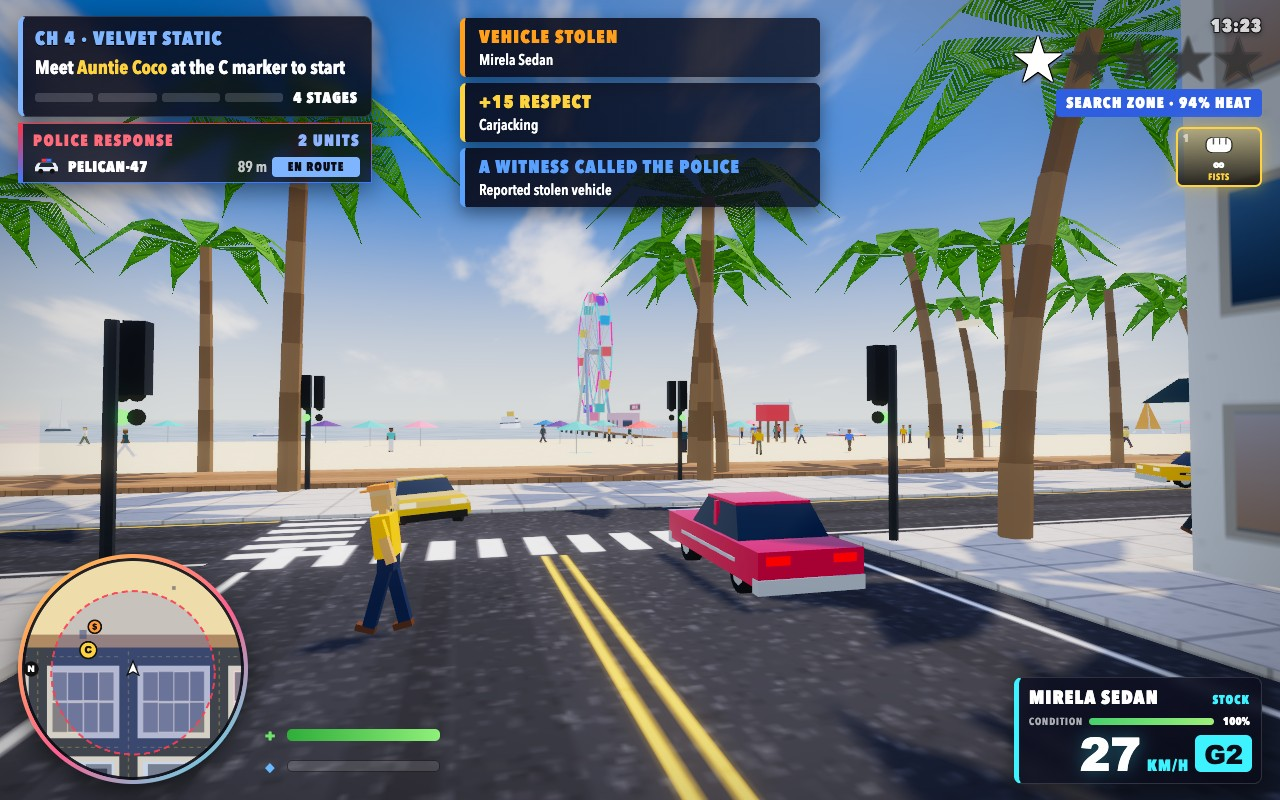
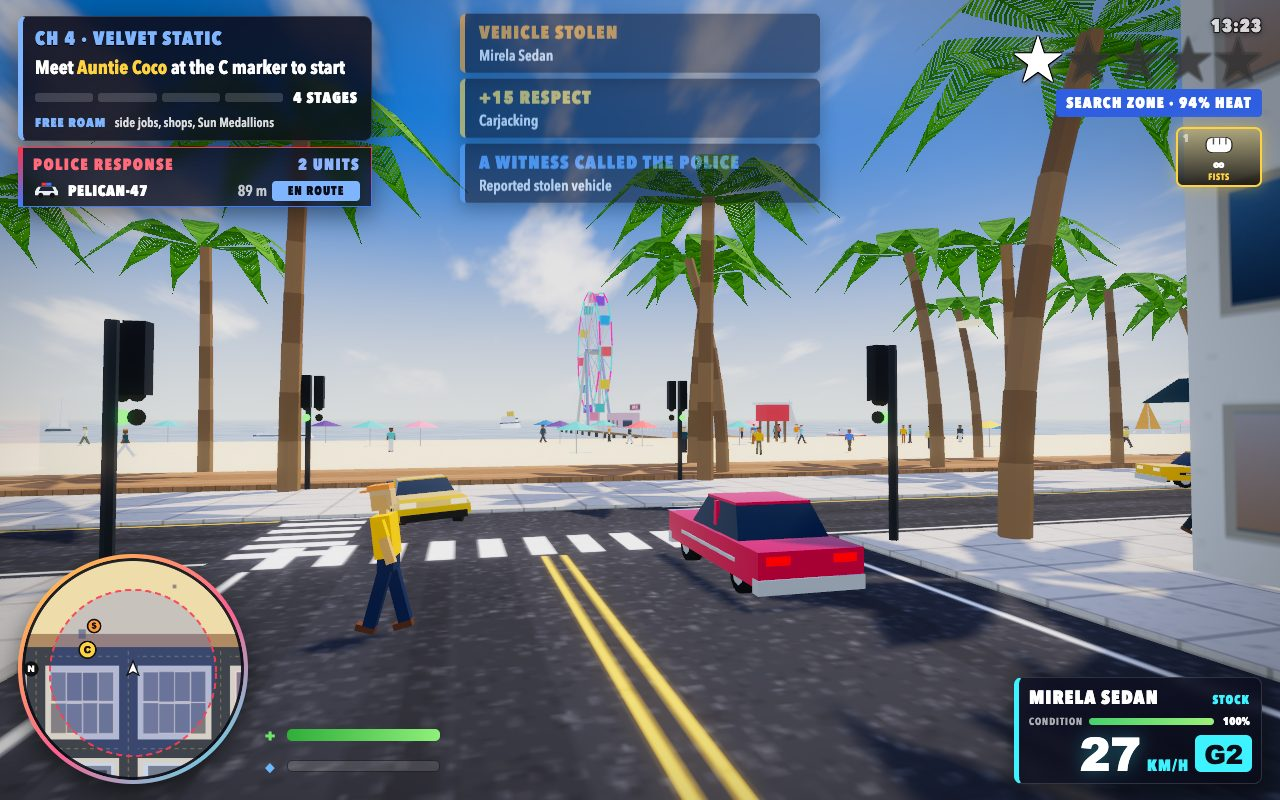
Polish Gold Coast escape guidance

diff --git a/game/src/missions/chapters.js b/game/src/missions/chapters.js
@@ -30,31 +30,33 @@ export const NEON_PALMS = { x: lineCoord(6) + 18, z: lineCoord(7) - 8 };
 const TRUCK_START = { x: lineCoord(9) - 3.5, z: lineCoord(2) + 8 };
 const TRUCK_SPEED = 10;
 
-const ESCAPE_OBJECTIVE = "Outrun the heat to Tavo's garage, or lose sight of the cops and slip into Coco's";
+const ESCAPE_OBJECTIVE = "Follow the GPS to stash Pike's cash";
 
 /**
  * Gold Coast Getaway's escape: two drops. Tavo's garage takes Dani in with the cruisers on the
  * bumper; Coco's side door is a block from the heist but only opens once no unit can see Dani,
- * and Coco keeps a cut. The GPS follows whichever drop is nearer, and the objective line says
- * what Coco is waiting for.
+ * and Coco keeps a cut. The GPS chooses the nearer route once, then stays stable so a turn at an
+ * intersection cannot make the HUD and route flip back and forth.
  */
 function updateEscape(ctx) {
   const g = ctx.game;
   const p = g.player;
   ctx.data.cocoDrop ??= ctx.spot(COCO_DROP.x, COCO_DROP.z, { radius: 4.5, color: '#ffb347', label: "Coco's side door" });
-  ctx.data.gpsTo ??= 'tavo';
   const drop = ctx.data.cocoDrop;
   const toCoco = Math.hypot(p.x - drop.x, p.z - drop.z);
   const toTavo = Math.hypot(p.x - garageBay.x, p.z - garageBay.z);
-  const nearer = toCoco < toTavo ? 'coco' : 'tavo';
-  if (nearer !== ctx.data.gpsTo) {
-    ctx.data.gpsTo = nearer;
-    if (nearer === 'coco') g.gps.setTarget(drop.x, drop.z, '#ffb347');
-    else g.gps.setTarget(garageBay.x, garageBay.z, '#3ef2ff');
+  if (!ctx.data.gpsTo) {
+    ctx.data.gpsTo = toCoco < toTavo ? 'coco' : 'tavo';
+    if (ctx.data.gpsTo === 'coco') g.gps.setTarget(drop.x, drop.z, '#ffb347');
   }
   const seen = g.wanted.state.seen && g.wanted.level > 0;
-  if (toCoco < 45) ctx.objective(seen ? "Coco won't open with cops in sight: break line of sight" : "Out of sight: pull up at Coco's side door, now");
-  else ctx.objective(ESCAPE_OBJECTIVE);
+  const routeCoco = ctx.data.gpsTo === 'coco';
+  ctx.objective(routeCoco
+    ? (seen ? "GPS: Coco's side door — break police sight before entry" : "GPS: Coco's side door — pull in while unseen")
+    : "GPS: Tavo's garage — drive into the bay, even with heat");
+  ctx.data.routeCue = routeCoco
+    ? `COCO ${Math.round(toCoco)} m · UNSEEN · $4,500  |  TAVO ${Math.round(toTavo)} m · HEAT OK · $6,000`
+    : `TAVO ${Math.round(toTavo)} m · HEAT OK · $6,000  |  COCO ${Math.round(toCoco)} m · UNSEEN · $4,500`;
   if (ctx.atWaypoint(12) && p.vehicle) {
     // Driving into Tavo's bay with the heat on: the door rolls down behind Dani.
     finishEscape(ctx, 'tavo', "Drop the cash at Tavo's garage");

diff --git a/game/src/shots/shotScenes.js b/game/src/shots/shotScenes.js
@@ -85,28 +85,31 @@ const SCENES = {
     const ctx = startChapterAt(game, 'goldcoast', 2, "Outrun the four-star response and reach Tavo's garage");
     game.vehicles.remove(ctx.data.truck);
     const tavo = LANDMARKS.tavoGarage;
+    // This reproducible cover follows the full-payout branch; normal play chooses once by distance.
+    ctx.data.gpsTo = 'tavo';
     ctx.waypoint(tavo.x, tavo.z - 13, { radius: 4.5, color: '#3ef2ff', label: "Tavo's garage" });
     ctx.timer(131.4);
-    const car = game.vehicles.spawn('vantor', 170, -1.8, EAST, { color: '#12c8e0' });
+    const car = game.vehicles.spawn('vantor', 140, 5, 0, { color: '#12c8e0' });
     car.persistent = true;
     p.teleport(car.x, car.z - 2);
     p.enterVehicle(car);
-    car.vx = 31;
+    car.vz = 31;
     game.wanted.setLevel(4);
     // The pack on Dani's bumper: one dead astern, two flanking, one more behind.
-    const units = [[164, 3.4], [158.5, 6.2], [156, 0.8], [151, -4.2]].map(([x, z]) => {
-      const u = game.police.spawnUnitAt(x, z, EAST);
-      u.car.vx = 31;
+    const units = [[135.5, -1], [141.5, -6.5], [146, -9], [137, -14]].map(([x, z]) => {
+      const u = game.police.spawnUnitAt(x, z, 0);
+      u.car.vz = 31;
       return u;
     });
     trafficCar(game, 'solcab', 236, -3.5, -EAST, 6);
     trafficCar(game, 'mirela', 214, -3.5, -EAST, 8, '#f1faee');
     trafficCar(game, 'tessaro', lineCoord(9) - 3.5, 30, Math.PI, 6, '#a8dadc');
     populate(game, 200, 0, 4, 20, 50, 130);
-    game.camera.alignBehind(EAST, 0.12);
+    game.camera.alignBehind(0, 0.12);
     run(game, tools, 0.3, ['KeyW']);
     // Dispatch boxes the road in at the Promenade, the helicopter leans in over the chase.
-    game.police.roadblocks.buildAt(lineCoord(8) + 14, 0, EAST);
+    game.gps.update(1.1);
+    game.police.roadblocks.buildAt(140, car.z + 55, 0);
     game.police.helicopter.placeAt(car.x + 30, 19, car.z - 1, 0);
     game.dialogue.clear();
     game.dialogue.say([{ who: 'juno', text: 'Roadblock at the Promenade! Thread the gap and do NOT touch the spikes, Dani!', duration: 30 }]);
@@ -114,7 +117,7 @@ const SCENES = {
     units[0].ramming = true;
     // A close chase camera that keeps Dani's car dominant while the police pack and route read clearly.
     const lead = game.player.vehicle ?? car;
-    game.camera.setPose(lead.x - 14, 4.1, lead.z - 4, lead.x + 20, 2, lead.z + 1.4, 57);
+    game.camera.setPose(lead.x - 4, 4.1, lead.z - 14, lead.x + 1.4, 2, lead.z + 20, 57);
     clearLens(game);
   },
 

diff --git a/game/src/police/dispatch.js b/game/src/police/dispatch.js
@@ -5,6 +5,29 @@
 
 const PREFIXES = ['MARLIN', 'HERON', 'TARPON', 'PELICAN', 'SNAPPER', 'OSPREY', 'BARRACUDA', 'EGRET'];
 
+function pointSegmentDistance(p, a, b) {
+  const dx = b.x - a.x, dz = b.z - a.z;
+  const length2 = dx * dx + dz * dz || 1;
+  const t = Math.max(0, Math.min(1, ((p.x - a.x) * dx + (p.z - a.z) * dz) / length2));
+  return Math.hypot(p.x - (a.x + dx * t), p.z - (a.z + dz * t));
+}
+
+/** Nearest real roadblock that is in front of the player and on the active GPS route. */
+export function findRoadblockAhead(player, blocks, route, heat) {
+  if (!heat || !route?.length) return null;
+  const speed = Math.hypot(player.vx ?? 0, player.vz ?? 0);
+  const fx = speed > 2 ? player.vx / speed : Math.sin(player.heading ?? 0);
+  const fz = speed > 2 ? player.vz / speed : Math.cos(player.heading ?? 0);
+  return blocks.map((block) => {
+    const dx = block.x - player.x, dz = block.z - player.z;
+    const distance = Math.hypot(dx, dz);
+    const ahead = distance ? (dx * fx + dz * fz) / distance : -1;
+    const onRoute = route.some((point, i) => i && pointSegmentDistance(block, route[i - 1], point) < 22);
+    return { block, distance, ahead, onRoute };
+  }).filter((item) => item.distance < 190 && item.ahead > 0.35 && item.onRoute)
+    .sort((a, b) => a.distance - b.distance)[0] ?? null;
+}
+
 /** Status tags with the colour the HUD shows them in. */
 export const UNIT_STATUS = {
   RAMMING: { label: 'RAMMING', color: '#ff4d5e' },
@@ -60,6 +83,15 @@ export function createDispatch(game, force) {
     return { rows: rows.slice(0, limit), more: Math.max(0, rows.length - limit) + force.reserveUnits };
   }
 
+  function roadblockAhead() {
+    const p = game.player;
+    const v = p.vehicle;
+    return findRoadblockAhead({
+      x: p.x, z: p.z, vx: v?.vx, vz: v?.vz,
+      heading: v?.heading ?? game.camera.state.yaw,
+    }, force.roadblocks.blocks, game.gps.state.route, game.wanted.level > 0);
+  }
+
   // Scanner chatter on escalation.
   game.events.on('wantedRaised', ({ level }) => {
     if (game.shotMode) return;
@@ -69,5 +101,5 @@ export function createDispatch(game, force) {
   });
   game.events.on('wantedCleared', () => { chatter.lastLevel = 0; });
 
-  return { callsign, roster, statusOf };
+  return { callsign, roster, statusOf, roadblockAhead };
 }

diff --git a/game/src/shots/selfTest.js b/game/src/shots/selfTest.js
@@ -145,6 +145,7 @@ export function runSelfTest(game, { simulate, input, session, interactions }, re
     game.police.reset();
     const index = CHAPTERS.findIndex((c) => c.id === 'goldcoast');
     game.state.storyProgress = index;
+    const cashBefore = game.state.cash;
     const ctx = game.missions.startById('goldcoast');
     const truck = ctx.data.truck;
     truck.damage(truck.maxHealth * 0.85, 'player');
@@ -156,6 +157,7 @@ export function runSelfTest(game, { simulate, input, session, interactions }, re
     if (ctx.stageIndex !== 2 || game.wanted.level !== 4) throw new Error(`case grabbed but stage ${ctx.stageIndex}, ${game.wanted.level} stars`);
     run(0.2);
     const spot = drop === 'coco' ? ctx.data.cocoDrop : ctx.current;
+    if (!ctx.data.routeCue?.includes('$6,000') || !ctx.data.routeCue.includes('$4,500')) throw new Error(`missing route terms: ${ctx.data.routeCue}`);
     const car = game.vehicles.spawn('vantor', spot.x, spot.z - 9, 0);
     p.teleport(car.x - 2, car.z);
     p.enterVehicle(car);
@@ -165,7 +167,7 @@ export function runSelfTest(game, { simulate, input, session, interactions }, re
     run(0.3);
     if (drop === 'coco') {
       if (ctx.stageIndex !== 2) throw new Error('Coco opened with a cruiser watching');
-      if (!/break line of sight/.test(ctx.objectiveText)) throw new Error(`objective "${ctx.objectiveText}"`);
+      if (!/break police sight/.test(ctx.objectiveText)) throw new Error(`objective "${ctx.objectiveText}"`);
       game.police.reset();
       game.vehicles.remove(unit.car);
       run(0.5);
@@ -173,6 +175,8 @@ export function runSelfTest(game, { simulate, input, session, interactions }, re
     run(0.3);
     if (game.missions.active) throw new Error(`still on stage ${ctx.stageIndex}: ${ctx.objectiveText}`);
     if (game.state.choices.goldcoastDrop !== drop) throw new Error(`choice saved as ${game.state.choices.goldcoastDrop}`);
+    const expectedReward = drop === 'coco' ? 4500 : 6000;
+    if (game.state.cash !== cashBefore + expectedReward) throw new Error(`${drop} paid $${game.state.cash - cashBefore}, expected $${expectedReward}`);
     if (game.state.storyProgress !== index + 1) throw new Error(`story progress ${game.state.storyProgress}`);
     if (p.vehicle) p.exitVehicle(true);
     run(0.5);

diff --git a/game/src/ui/dispatchPanel.js b/game/src/ui/dispatchPanel.js
@@ -22,12 +22,16 @@ export function createDispatchPanel(game) {
     timer -= dt;
     if (timer > 0 && lastHtml) return;
     timer = 0.25;
-    const { rows, more } = game.police.roster(5);
-    const html = rows.map((r) => `<li class="unit-${r.kind}"><i>${ICONS[r.kind]}</i><b>${r.callsign}</b><span>${Math.round(r.distance)} m</span><em style="--tag:${r.status.color}">${r.status.label}</em></li>`).join('');
+    const roster = game.police.roster(5);
+    const alert = game.police.dispatch.roadblockAhead();
+    const contact = roster.rows.find((r) => r.kind !== 'block');
+    const rows = contact ? [contact, ...roster.rows.filter((r) => r !== contact)] : roster.rows;
+    if (alert) rows.splice(1, 0, { callsign: 'BLOCK AHEAD', kind: 'block', distance: alert.distance, status: { label: 'ROADBLOCK', color: '#ff9f1c' }, alert: true });
+    const html = rows.map((r) => `<li class="unit-${r.kind}${r.alert ? ' roadblock-alert' : ''}"><i>${ICONS[r.kind]}</i><b>${r.callsign}</b><span>${Math.round(r.distance)} m</span><em style="--tag:${r.status.color}">${r.status.label}</em></li>`).join('');
     if (html !== lastHtml) { el.rows.innerHTML = html; lastHtml = html; }
-    const total = rows.length + more;
+    const total = roster.rows.length + roster.more;
     el.count.textContent = `${total} UNIT${total === 1 ? '' : 'S'}`;
-    el.more.textContent = more > 0 ? `+${more} more unit${more === 1 ? '' : 's'} in the search zone` : game.wanted.evading ? 'Units sweeping the search zone' : 'All units on you';
+    el.more.textContent = roster.more > 0 ? `+${roster.more} more unit${roster.more === 1 ? '' : 's'} in the search zone` : game.wanted.evading ? 'Units sweeping the search zone' : 'All units on you';
   }
 
   return { render };

diff --git a/game/src/ui/styles.css b/game/src/ui/styles.css
@@ -202,15 +202,16 @@ html, body { margin: 0; height: 100%; overflow: hidden; background: #0b0d16; fon
 #hud.pursuit #hud-radio,
 #hud.pursuit #hud-district,
 #hud.pursuit #hud-crew,
-#hud.pursuit #hud-respect,
-#hud.pursuit #hud-mission-next { display: none !important; }
+#hud.pursuit #hud-respect { display: none !important; }
 #hud.pursuit #hud-topleft { width: 354px; gap: 6px; }
 #hud.pursuit #hud-mission { padding: 9px 13px 8px 12px; background: linear-gradient(160deg, rgba(14,16,34,0.92), rgba(8,9,22,0.82)); }
 #hud.pursuit #hud-objective { margin: 5px 0 7px; font-size: 19px; }
+#hud.pursuit #hud-mission-next { margin-top: 6px; font-size: 13px; }
 #hud.pursuit #hud-dispatch { padding: 6px 11px 5px 10px; }
 #hud.pursuit #hud-dispatch-rows { display: flex; margin: 5px 0 0; }
 #hud.pursuit #hud-dispatch-rows li { display: none; grid-template-columns: 30px 1fr 52px 88px; font-size: 15px; gap: 5px; }
 #hud.pursuit #hud-dispatch-rows li:first-child { display: grid; }
+#hud.pursuit #hud-dispatch-rows li.roadblock-alert { display: grid; }
 #hud.pursuit #hud-dispatch-rows li i svg { width: 27px; }
 #hud.pursuit #hud-dispatch-rows li em { font-size: 12px; }
 #hud.pursuit #hud-dispatch-more { display: none; }

diff --git a/game/src/ui/missionCard.js b/game/src/ui/missionCard.js
@@ -36,7 +36,9 @@ export function createMissionCard(game) {
       segments(stages.length, ctx.stageIndex);
       setText(el.stageLabel, `STAGE ${ctx.stageIndex + 1}/${stages.length}`);
       const next = stages[ctx.stageIndex + 1];
-      setHtml(el.next, next ? `<b>NEXT</b> ${esc(next)}` : `<b>PAYOUT</b> $${def.reward.toLocaleString('en-US')}`);
+      setHtml(el.next, ctx.data.routeCue
+        ? `<b>ROUTE</b> ${esc(ctx.data.routeCue)}`
+        : next ? `<b>NEXT</b> ${esc(next)}` : `<b>PAYOUT</b> $${def.reward.toLocaleString('en-US')}`);
     } else if (side && state.objective) {
       el.card.dataset.kind = 'side';
       setText(el.chapter, side.kind === 'taxi' ? `SOLCAB · FARE ${side.fares + 1}` : `COCO'S TACO RUN · ${side.drops ?? 0}/3`);

diff --git a/README.md b/README.md
@@ -23,7 +23,7 @@ Dani Reyes took a six-year fall for the Saltjaw Crew and kept quiet. Now Dani is
 - **Story.** Eight chapters with stages, timers and voiced-style dialogue with painted portraits: *Homecoming*, *Showroom Special*, *Heat Wave*, *Velvet Static* (a neon night shootout with the Velvet Knives and their boss), *Tail Lights*, *Gold Coast Getaway* (an armored-truck heist and a four-star escape that ends at Tavo's garage, which takes Dani in under fire, or at Coco's side door a block away, which only opens once no unit can see Dani and costs a cut; Tavo remembers which), *Ironwake Reckoning* and *Sunset Run*.
 - **Progression.** Respect from chapters, side jobs, carjackings, escapes and crew fights climbs six ranks, from Fresh Out to Golden Coast Legend, unlocking guns at Bayside Arms and upgrade tiers at Tavo's Chrome & Paint: repairs, a respray that loses the heat, engine tunes, armour plating and race brakes, each previewed on stat bars. An upgraded car becomes Dani's own and is saved.
 - **Side activities.** Solcab taxi fares, Coco's Taco Run deliveries, 25 hidden Sun Medallions, rival crew turf, the safehouse save point and pickups around the city.
-- **HUD.** A mission card with chapter, timer, objective, STAGE n/m and what is NEXT; the police-response panel; cash, clock and wanted stars with IN SIGHT / SEARCH ZONE; a five-slot weapon bar with ammo and respect locks; a rotating minimap with GPS route, blips and the police search circle; the district pill; health, armour and respect bars; a radio card with song and artist; a vehicle card with condition, speed and gear; toasts and dialogue. When a pursuit starts, secondary free-roam details collapse while the nearest real dispatch unit stays visible with its call sign, live status and range.
+- **HUD.** A mission card with chapter, timer, objective, STAGE n/m and what is NEXT; the police-response panel; cash, clock and wanted stars with IN SIGHT / SEARCH ZONE; a five-slot weapon bar with ammo and respect locks; a rotating minimap with GPS route, blips and the police search circle; the district pill; health, armour and respect bars; a radio card with song and artist; a vehicle card with condition, speed and gear; toasts and dialogue. When a pursuit starts, secondary free-roam details collapse while the nearest real dispatch contact stays visible with its call sign, live status and range, plus a real roadblock alert only when one is ahead on the GPS route.
 - **Menus and saves.** A title screen with a story intro, and a pause menu with the city map (click to set a waypoint), the chapter brief and stats, settings and controls. Progress saves to localStorage.
 - **Sound.** Four procedural radio stations with original song titles (Sunwave 101.7, Bayside Bass 94.3, Radio Tropicana 88.9, Low Tide 106.1), plus engines, sirens, the helicopter, surf, gunfire, crashes and explosions, all synthesised with Web Audio.
 
